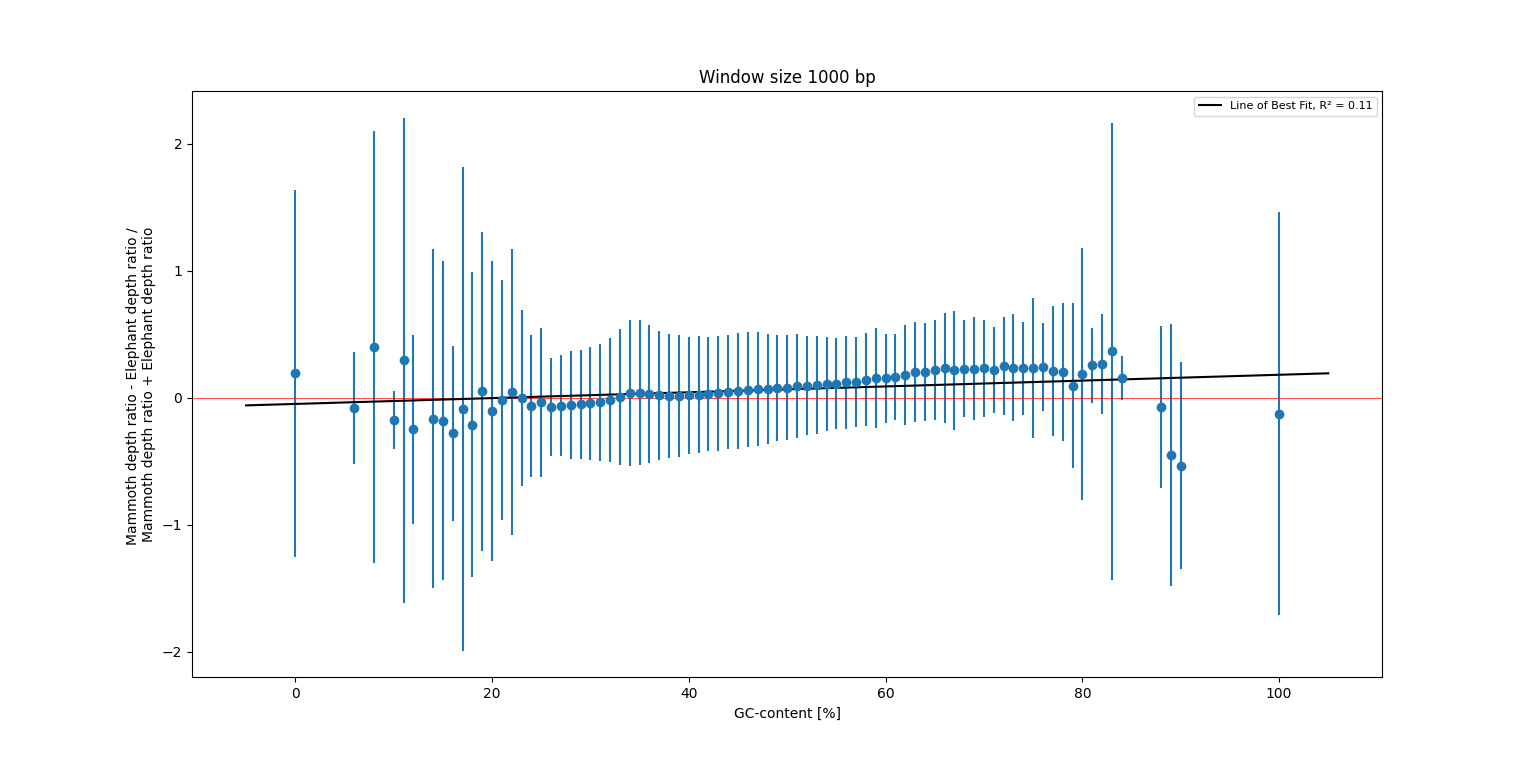
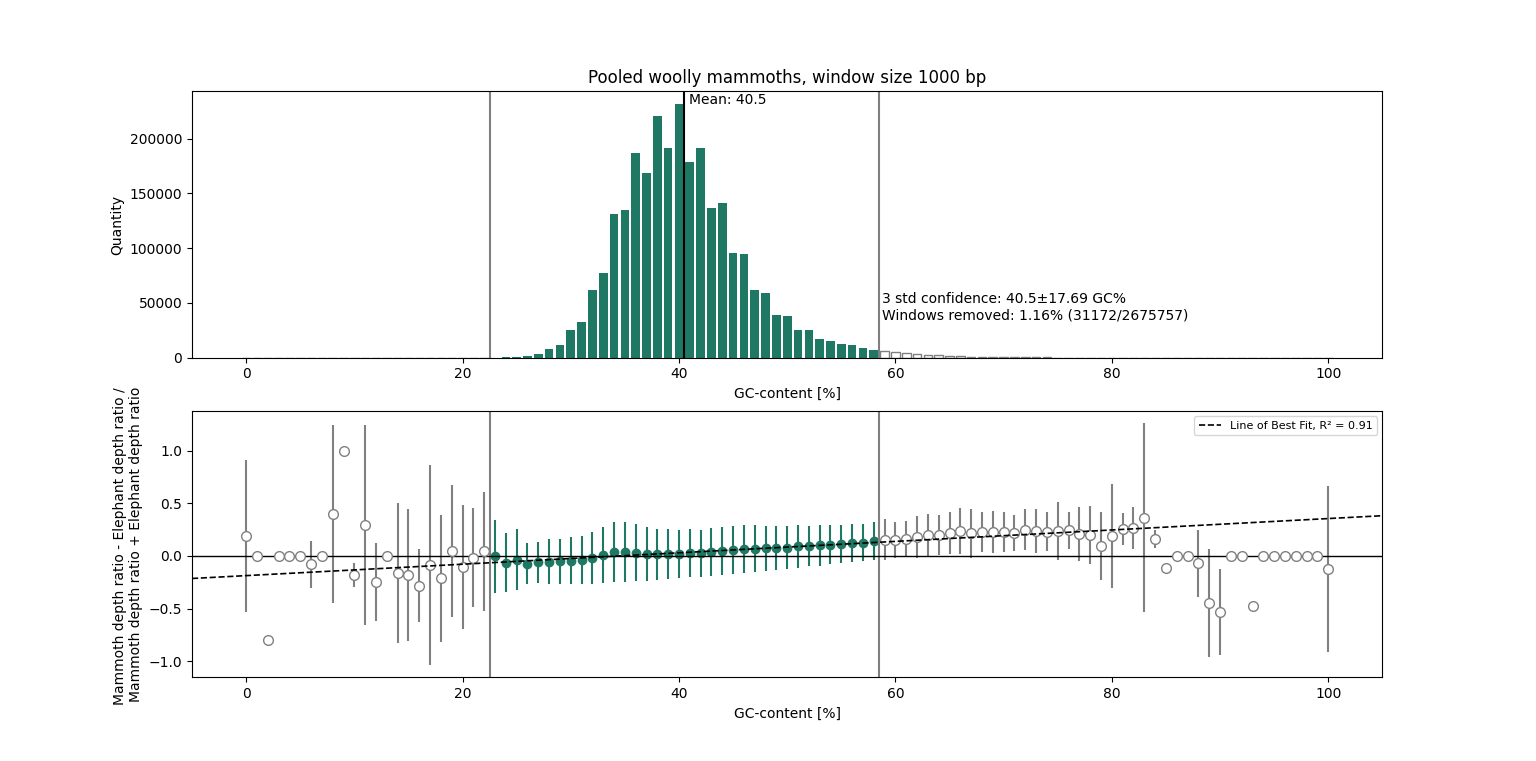
Plot script + plot

diff --git a/scripts/gc_distribution_plots.py b/scripts/gc_distribution_plots.py
@@ -1,0 +1,101 @@
+import pandas as pd
+import matplotlib.pyplot as plt
+import numpy as np
+
+def readFiles(file_path):
+    #file_path = input('File path to data: ')
+    data = pd.read_csv(file_path, sep='\t', comment='t', header=None)
+    data.columns = ['Mean', 'Std', 'NumOfWindows']
+    data.insert(0, 'GC%', [i for i in range(101)])
+    return data
+
+def meanCalc(data):
+    sum_NumOfWindows = data.sum()['NumOfWindows']
+    #Mean value calculations
+    mean_GC = 0
+    for i in range(len(data)):
+        mean_GC += i * data['NumOfWindows'][i]
+    mean_GC = mean_GC/sum_NumOfWindows
+    return mean_GC
+
+def stdCalc(data):
+    sum_NumOfWindows = data.sum()['NumOfWindows']
+    #Standard deviation calculations
+    variance = 0
+    for i in range(len(data)):
+        variance += ((i-mean_GC)**2) * data['NumOfWindows'][i]
+    variance = variance/sum_NumOfWindows
+    std_GC = variance**0.5
+    return std_GC
+
+def findOutliers(data, mean, std):
+    data['Outlier'] = ""
+    for i in range(len(data)):
+        if i < round(mean-numOfStds*std) or i > round(mean+numOfStds*std):
+            data.loc[i,'Outlier'] = True
+        else:
+            data.loc[i,'Outlier'] = False
+
+def dataFrameToList(data, column):
+    lst = data[column].where(data['Outlier']==False)
+    lst = list(lst.dropna())
+    return lst
+
+#Variables that can be altered
+file_path = "GC_data\GC_GenomeWide_1000bpWS.txt"
+#file_path = "GC_data\mammoth_1_1000bp.txt"
+window_size = 1000 #This does not do anything except changes the plot title
+sample = 'Pooled woolly mammoths' #This does not do anything except changes the plot title
+plot_color = '#1f7864'#'#0077b8'
+numOfStds = 3
+
+data = readFiles(file_path)
+mean_GC = meanCalc(data)
+std_GC = stdCalc(data)
+findOutliers(data, mean_GC, std_GC)
+
+removedOutliers = sum(data.loc[data['Outlier'], 'NumOfWindows'].tolist())
+totalWindows = data['NumOfWindows'].sum()
+removedOutliersFraction = 100*(removedOutliers/totalWindows)
+
+plt.subplot(2,1,1)
+plt.bar(data['GC%'], data['NumOfWindows'],color=plot_color)
+plt.bar(data['GC%'].where(data['Outlier']),data['NumOfWindows'],color='white', edgecolor='grey')
+plt.axvline(x=mean_GC, color='black')
+plt.axvline(x=round(mean_GC-numOfStds*std_GC)-0.5, color = 'grey')
+plt.axvline(x=round(mean_GC+numOfStds*std_GC)+0.5, color = 'grey')
+plt.text(mean_GC*1.01,max(data['NumOfWindows'])+max(data['NumOfWindows'])*0.001,f'Mean: {round(mean_GC,2)}')
+plt.text((mean_GC+numOfStds*std_GC)*1.01,max(data['NumOfWindows'])*0.15,f'3 std confidence: {round(mean_GC,2)}±{round(numOfStds*std_GC,2)} GC% \nWindows removed: {round(removedOutliersFraction,2)}% ({removedOutliers}/{totalWindows})')
+plt.xlabel('GC-content [%]')
+plt.ylabel('Quantity')
+plt.title(f'{sample}, window size {window_size} bp')
+plt.xlim([-5,105])
+#plt.yscale('log')
+
+plt.subplot(2,1,2)
+plt.errorbar(data['GC%'].where(data['Outlier'] == False),data['Mean'], yerr=data['Std'],color=plot_color, ecolor=plot_color, fmt='o',zorder=1)
+plt.errorbar(data['GC%'].where(data['Outlier']),data['Mean'], yerr=data['Std'], fmt='wo', ms=7, mec='grey',ecolor='grey',zorder=2)
+plt.axvline(x=round(mean_GC-numOfStds*std_GC)-0.5, color = 'grey')
+plt.axvline(x=round(mean_GC+numOfStds*std_GC)+0.5, color = 'grey')
+plt.text(mean_GC*1.01,max(data['NumOfWindows'])+max(data['NumOfWindows'])*0.005,f'Mean: {round(mean_GC,2)}')
+plt.text((mean_GC+numOfStds*std_GC)*1.01,max(data['NumOfWindows'])*0.15,f'99% confidence: {round(mean_GC,2)}+-{round(numOfStds*std_GC,2)}')
+
+mean_list = dataFrameToList(data,'Mean')
+GC_list = dataFrameToList(data, 'GC%')
+# Fit trend line to data
+p = np.polyfit(GC_list,mean_list, deg=1) # Parameters from the fit of the polynomial
+y_model = np.polyval(p, GC_list) # Model the data using the parameters of the fitted straight line
+y_bar = np.mean(mean_list) # Mean
+R2 = np.sum((y_model - y_bar) ** 2) / np.sum((mean_list - y_bar) ** 2) # Coefficient of determination, R²
+xlim = plt.xlim()
+#Ploting the linear regression
+plt.plot(np.array(xlim), p[1] + p[0] * np.array(xlim), '--', linewidth=1.2, label=f'Line of Best Fit, R² = {R2:.2f}', color='black', zorder=3)
+plt.legend(fontsize=8)
+plt.axhline(y=0, color='black', linewidth=1)
+plt.xlim([-5,105])
+plt.xlabel('GC-content [%]')
+plt.ylabel('Mammoth depth ratio - Elephant depth ratio / \nMammoth depth ratio + Elephant depth ratio')
+
+plt.show()
+
+
